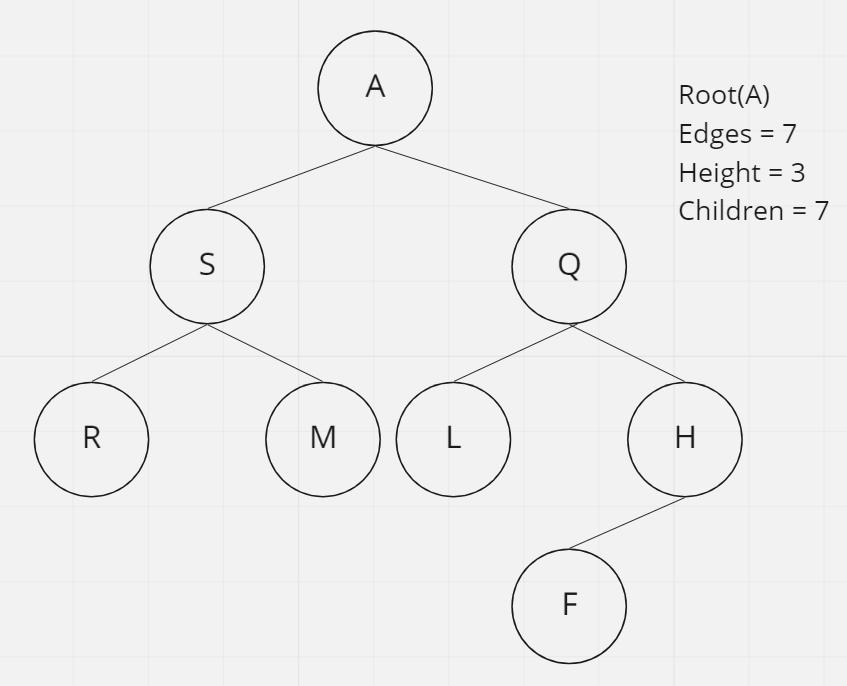
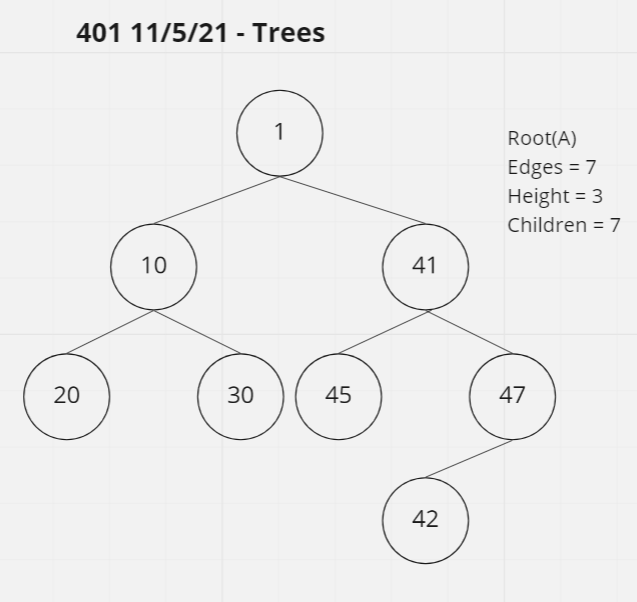
working add() and contain() methods

diff --git a/javascript/trees/__trees.test.js b/javascript/trees/__trees.test.js
@@ -1,0 +1,127 @@
+'use strict';
+
+// Need to add the following tests:
+// Can successfully instantiate an empty tree
+// Can successfully instantiate a tree with a single root node
+// Can successfully add a left child and right child to a single root node
+// Can successfully return a collection from a preorder traversal
+// Can successfully return a collection from an inorder traversal
+// Can successfully return a collection from a postorder traversal
+
+
+const { Node, BinarySearchTree } = require('./trees.js');
+
+describe('Trees', () => {
+	////// ----- Node -----//////
+	test('Node is a class', () => {
+		expect(typeof Node.prototype.constructor).toEqual('function');
+	});
+
+	// 	////// ----- BinaryTree -----//////
+	// 	test('can successfully push onto a stack', () => {
+	// 		const s = new Stack();
+	// 		s.push('2');
+	// 		expect(s.top.value).toBe('2');
+	// 	});
+
+	// 	test('can successfully push multiple values onto a stack', () => {
+	// 		const s = new Stack();
+	// 		console.log(s);
+	// 		s.push('3', '5', '7', '9');
+	// 		expect(s.top.value).toBe('3', '5', '7', '9');
+	// 	});
+
+	// 	test('can successfully pop off the stack', () => {
+	// 		const s = new Stack();
+	// 		s.push(3);
+	// 		s.push(5);
+	// 		s.push(7);
+	// 		s.push(9);
+	// 		expect(s.pop()).toBe(9);
+	// 	});
+
+	// 	test('can successfully empty a stack after multiple pops', () => {
+	// 		const s = new Stack();
+	// 		s.push(3);
+	// 		s.push(5);
+	// 		s.push(7);
+	// 		s.push(9);
+	// 		expect(s.pop()).toBe(9);
+	// 		expect(s.pop()).toBe(7);
+	// 		expect(s.pop()).toBe(5);
+	// 		expect(s.pop()).toBe(3);
+	// 	});
+
+	// 	test('can successfully peek the next item on the stack', () => {
+	// 		let s = new Stack();
+	// 		s.push(1);
+	// 		s.push(2);
+	// 		s.push(3);
+	// 		expect(s.peek()).toBe(3);
+	// 	});
+
+	// 	test('can successfully instantiate an empty stack', () => {
+	// 		const stack = new Stack();
+	// 		expect(stack.top).toBe(null);
+	// 	});
+
+	// 	test('calling pop or peek on empty stack raises exception', () => {
+	// 		const stack = new Stack();
+	// 		if (stack === null) {
+	// 			return ('this is not the stack you\'re looking for');
+	// 		}
+	// 	});
+
+	// 	////// ----- Queue -----//////
+	// 	test('can successfully enqueue into a queue', () => {
+	// 		const q = new Queue();
+	// 		q.enqueue('2');
+	// 		expect(q.front.value).toBe('2');
+	// 	});
+
+	// 	test('can successfully enqueue multiple values into a queue', () => {
+	// 		const q = new Queue();
+	// 		q.enqueue('3', '5', '7', '9');
+	// 		expect(q.front.value).toBe('3', '5', '7', '9');
+	// 	});
+
+	// 	test('can successfully dequeue out of a queue the expected value', () => {
+	// 		const q = new Queue();
+	// 		q.enqueue(3);
+	// 		q.enqueue(5);
+	// 		q.enqueue(7);
+	// 		q.enqueue(9);
+	// 		expect(q.dequeue()).toBe(3);
+	// 	});
+
+	// 	test('can successfully peek into a queue, seeing the expected value', () => {
+	// 		let q = new Queue();
+	// 		q.enqueue(1);
+	// 		q.enqueue(2);
+	// 		q.enqueue(3);
+	// 		expect(q.peek()).toBe(1);
+	// 	});
+
+	// 	test('can successfully empty a queue after multiple dequeues', () => {
+	// 		const q = new Queue();
+	// 		q.enqueue(3);
+	// 		q.enqueue(5);
+	// 		q.enqueue(7);
+	// 		expect(q.dequeue()).toBe(3);
+	// 		expect(q.dequeue()).toBe(5);
+	// 		expect(q.dequeue()).toBe(7);
+	// 	});
+
+	// 	test('can successfully instantiate an empty queue', () => {
+	// 		const q = new Queue();
+	// 		expect(q.front).toBe(null);
+	// 	});
+
+	// 	test('calling dequeue or peek on empty queue raises exception', () => {
+	// 		const q = new Queue();
+	// 		if (q === null) {
+	// 			return ('this is not the queue you\'re looking for');
+	// 		}
+	// 	});
+});
+

diff --git a/javascript/trees/trees.js b/javascript/trees/trees.js
@@ -8,61 +8,117 @@ class Node {
 	}
 }
 
-class BinaryTree {
+class BinarySearchTree {
 	constructor() {
 		this.root = null;
 	}
+
+	getRoot() {
+		return this.root;
+	}
+
+	add(value) {
+		let current = this.root;
+
+		if (!this.root) {
+			this.root = new Node(value);
+		}
+
+		while (current) {
+			if (value === current.value) {
+				return 'No duplicates, please';
+			}
+
+			if (value < current.value) {
+				if (current.left === null) {
+					current.left = new Node(value);
+					break;
+				} else {
+					current = current.left;
+				}
+			} else {
+				if (current.right === null) {
+					current.right = new Node(value);
+					break;
+				} else {
+					current = current.right;
+				}
+			}
+		}
+	}
+
+	contain(node, data) {
+		if (node === null) {
+			return null;
+		} else if (data < node.data) {
+			return this.contain(node.left, data);
+		} else if (data > node.data) {
+			return this.contain(node.right, data);
+		} else {
+			return node;
+		}
+	}
+
+	preOrder(current) {
+		console.log(current.value);
+		if (current.left) {
+			this.preOrder(current.left);
+		}
+		if (current.right) {
+			this.preOrder(current.right);
+		}
+	}
+
+	inOrder(current) {
+		if (current.left) {
+			this.inOrder(current.left);
+		}
+		console.log(current.value);
+		if (current.right) {
+			this.inOrder(current.right);
+		}
+	}
+
+	postOrder(current) {
+		if (current.left) {
+			this.postOrder(current.left);
+		}
+		if (current.right) {
+			this.postOrder(current.right);
+		}
+		console.log(current.value);
+	}
 }
 
-function PreOrder(current) {
-	console.log(current.value);
-	if (current.left) {
-		PreOrder(current.left);
-	}
-	if (current.right) {
-		PreOrder(current.right);
-	}
-}
+let tree = new BinarySearchTree();
 
-function InOrder(current) {
-	if (current.left) {
-		InOrder(current.left);
-	}
-	console.log(current.value);
-	if (current.right) {
-		InOrder(current.right);
-	}
-}
+tree.add(10);
+tree.add(20);
+tree.add(30);
+tree.add(41);
+tree.add(47);
+tree.add(45);
+tree.add(42);
 
-function PostOrder(current) {
-	if (current.left) {
-		PostOrder(current.left);
-	}
-	if (current.right) {
-		PostOrder(current.right);
-	}
-	console.log(current.value);
-}
+let root = tree.getRoot();
 
-let tree = new BinaryTree();
+console.log('preOrder');
+tree.preOrder(root);
+console.log('------------');
+console.log('inOrder');
+tree.inOrder(root);
+console.log('------------');
+console.log('postOrder');
+tree.postOrder(root);
+console.log('------------');
+console.log('add');
+tree.add(100);
+console.log('------------');
+console.log('contain');
+tree.contain(41);
+console.log('------------');
+console.log('add');
 
-tree.root = new Node('A');
-tree.root.left = new Node('S');
-tree.root.left.left = new Node('R');
-tree.root.left.right = new Node('M');
-tree.root.right = new Node('Q');
-tree.root.right.right = new Node('H');
-tree.root.right.left = new Node('L');
-tree.root.right.right.left = new Node('F');
-
-console.log('PreOrder');
-PreOrder(tree.root);
-console.log('------------')
-console.log('InOrder');
-InOrder(tree.root);
-console.log('------------')
-console.log('PostOrder');
-PostOrder(tree.root);
-
+module.exports = { Node, BinarySearchTree };
 
 

diff --git a/javascript/trees/README.md b/javascript/trees/README.md
@@ -4,14 +4,48 @@
 
 ## Challenge
 
-<!-- Description of the challenge -->
+### **Code Challenge 15: Binary Tree and BST Implementation**
+
+BRANCH NAME: `trees`
+
+**Node**
+
+- Create a Node class that has properties for the value stored in the node, the left child node, and the right child node.
+
+**Binary Tree**
+
+- Create a Binary Tree class
+  - Define a method for each of the depth first traversals:
+    - pre order
+    - in order
+    - post order which returns an array of the values, ordered appropriately.
+- Any exceptions or errors that come from your code should be semantic, capture-able errors. For example, rather than a default error thrown by your language, your code should raise/throw a custom, semantic error that describes what went wrong in calling the methods you wrote for this lab.
+
+**Binary Search Tree**
+
+- Create a Binary Search Tree class
+  - This class should be a sub-class (or your languages equivalent) of the Binary Tree Class, with the following additional methods:
+  - Add
+    - Arguments: value
+    - Return: nothing
+    - Adds a new node with that value in the correct location in the binary search tree.
+  - Contains
+    - Argument: value
+    - Returns: boolean, indicating whether or not the value is in the tree at least once.
+
+### **Code Challenge 16: Find the Maximum Value in a Binary Tree**
+
+BRANCH NAME: `tree-max`
+
+Write the following method for the Binary Tree class:
+
+- find maximum value
+- Arguments: none
+- Returns: number
+- Find the maximum value stored in the tree. You can assume that the values stored in the Binary Tree will be numeric.
 
 ## Approach & Efficiency
 
 <!-- What approach did you take? Why? What is the Big O space/time for this approach? -->
-
-## API
-
-<!-- Description of each method publicly available in each of your trees -->
 
 ![tree](tree.PNG)
